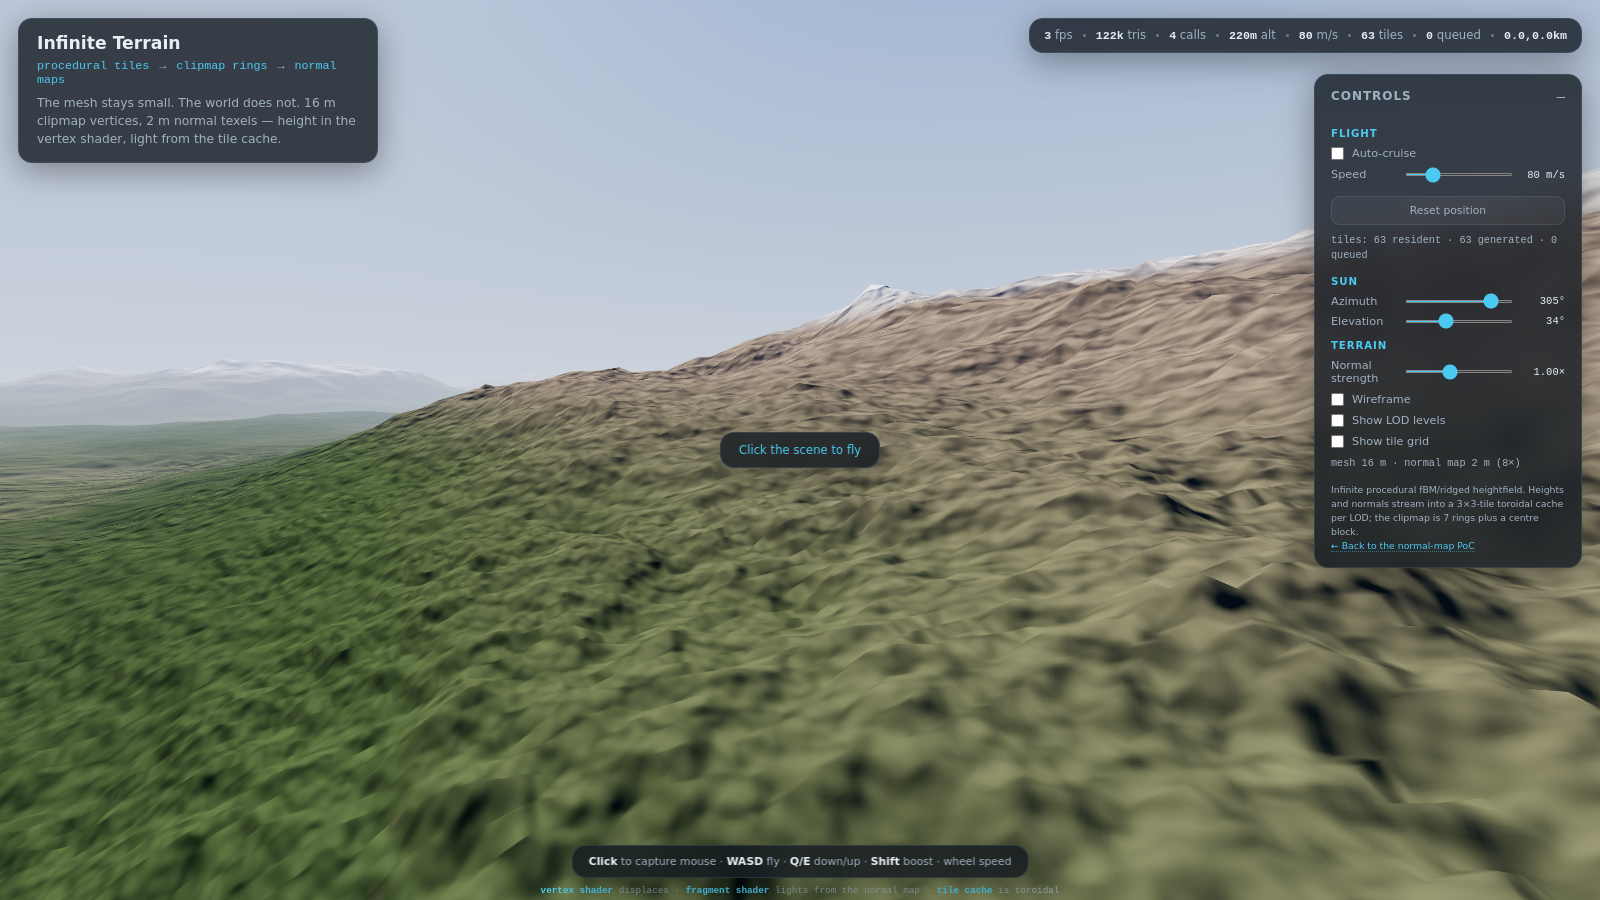
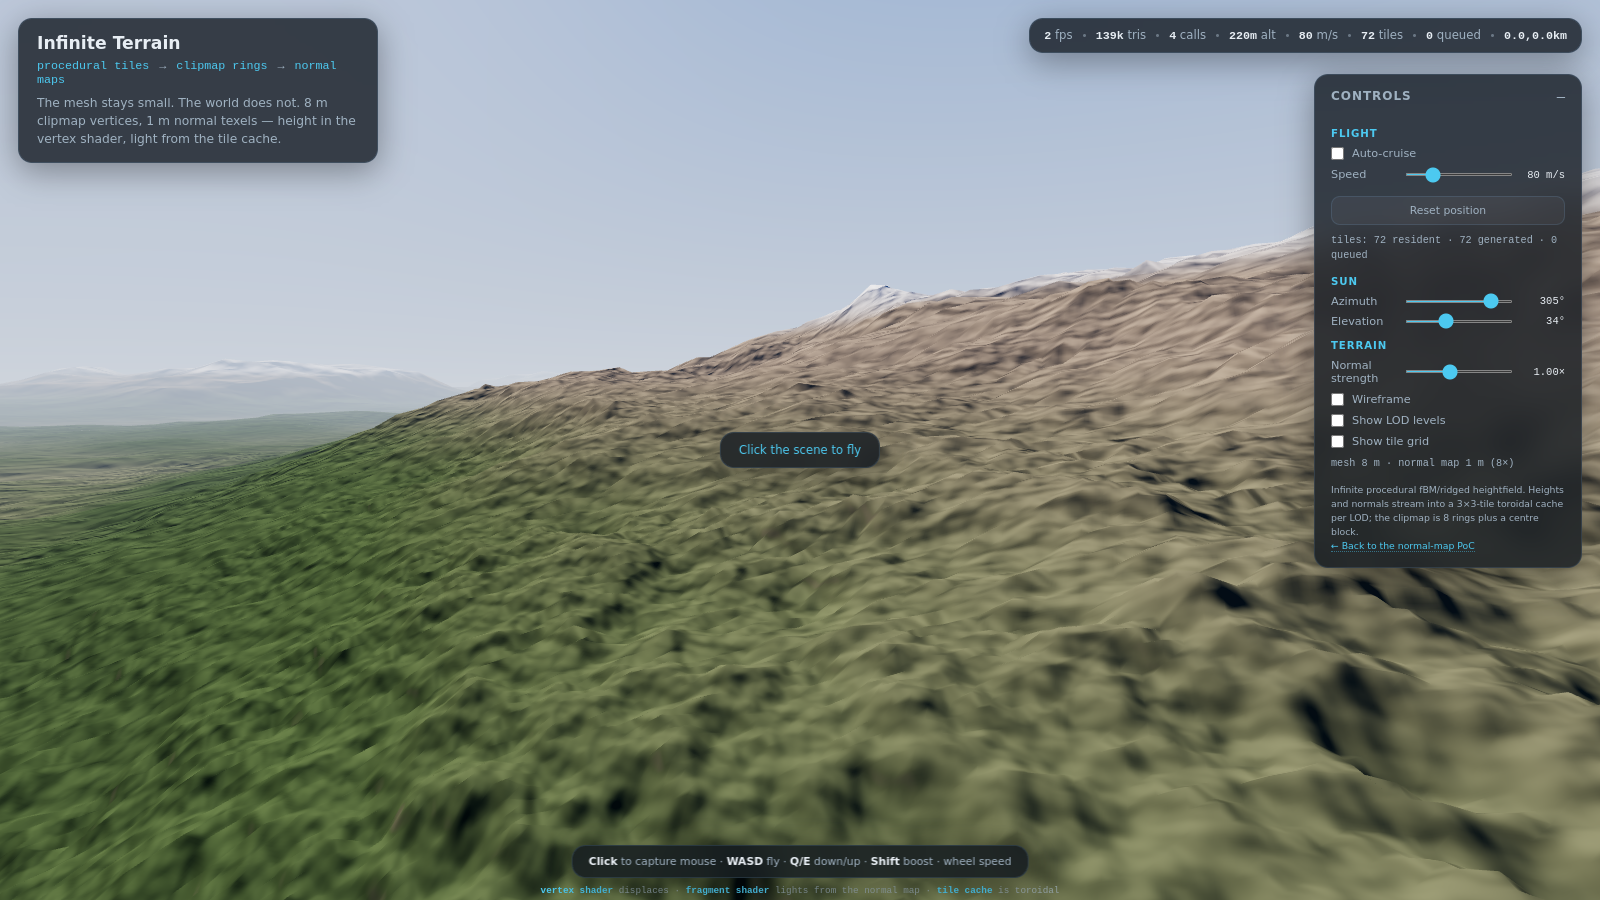
Double absolute terrain detail with 8m spacing at the 2048 cache ceiling

diff --git a/src/infinite/main.js b/src/infinite/main.js
@@ -31,9 +31,9 @@ import { initUI } from './ui.js';
 
 const CONFIG = {
   seed: DEFAULT_SEED,
-  baseSpacing: 16,      // metres between near-field vertices (coarser mesh)
+  baseSpacing: 8,       // metres between near-field vertices; halves the texel size
   centerCells: 24,      // centre block half-size and ring width, in cells
-  levels: 7,            // rings at LOD 0..6; 16m * 2^6 keeps the ~49km view
+  levels: 8,            // rings at LOD 0..7; 8m * 2^7 keeps the ~49km view
   tileSize: 64,         // height samples per tile side
   normalScale: 8,       // normal-map texels per height sample (8x mesh)
   cacheTiles: 3,        // 3x3 tiles per LOD layer (exactly the visible ring)
@@ -44,6 +44,12 @@ const CONFIG = {
 const OUTER_EXTENT = 2 * CONFIG.centerCells * CONFIG.baseSpacing * Math.pow(2, CONFIG.levels - 1);
 const CACHE_SIZE = CONFIG.cacheTiles * CONFIG.tileSize;
 const NORMAL_CACHE_SIZE = CACHE_SIZE * CONFIG.normalScale;
+// Keep the cache inside WebGL2's guaranteed minimum MAX_TEXTURE_SIZE (2048).
+// Resolution is increased by reducing world spacing, not by growing the cache.
+const MAX_CACHE_TEXELS = 2048;
+if (CACHE_SIZE > MAX_CACHE_TEXELS || NORMAL_CACHE_SIZE > MAX_CACHE_TEXELS) {
+  throw new Error(`tile cache ${CACHE_SIZE}/${NORMAL_CACHE_SIZE} exceeds ${MAX_CACHE_TEXELS} texels`);
+}
 const FOG_DENSITY = 2.4 / OUTER_EXTENT;
 // Largest tile-cache world size. Every lower LOD's cache size divides it, so
 // passing the render origin modulo this value is enough for every layer and

diff --git a/infinite.html b/infinite.html
@@ -28,7 +28,7 @@
     <p class="pipeline">
       procedural tiles <span class="arrow">→</span> clipmap rings <span class="arrow">→</span> normal maps
     </p>
-    <p class="tagline">The mesh stays small. The world does not. 16 m clipmap vertices, 2 m normal texels — height in the vertex shader, light from the tile cache.</p>
+    <p class="tagline">The mesh stays small. The world does not. 8 m clipmap vertices, 1 m normal texels — height in the vertex shader, light from the tile cache.</p>
   </header>
 
   <!-- Stats -->
@@ -83,11 +83,11 @@
         <label class="check-row"><input type="checkbox" id="wireframe" /> Wireframe</label>
         <label class="check-row"><input type="checkbox" id="lod-debug" /> Show LOD levels</label>
         <label class="check-row"><input type="checkbox" id="tile-debug" /> Show tile grid</label>
-        <p class="info">mesh 16 m · normal map 2 m (8×)</p>
+        <p class="info">mesh 8 m · normal map 1 m (8×)</p>
       </section>
 
       <section class="credits">
-        <p>Infinite procedural fBM/ridged heightfield. Heights and normals stream into a 3×3-tile toroidal cache per LOD; the clipmap is 7 rings plus a centre block.</p>
+        <p>Infinite procedural fBM/ridged heightfield. Heights and normals stream into a 3×3-tile toroidal cache per LOD; the clipmap is 8 rings plus a centre block.</p>
         <p><a href="./index.html">← Back to the normal-map PoC</a></p>
       </section>
     </div>

diff --git a/docs/INFINITE_TERRAIN_CONCEPT.md b/docs/INFINITE_TERRAIN_CONCEPT.md
@@ -38,7 +38,7 @@ Non-goals:
 | LOD seams | Explicit 2:1 stitch strips (fine edge + coarse-layer chord) + a skirt at the final horizon edge |
 | Flight UX | Free-fly (pointer lock + WASD) with an optional auto-cruise toggle |
 | Normal maps | Always on; no vertex-normal A/B mode on this page |
-| Quality target | Coarser mesh + finer maps: `S0 = 16 m`, 7 LODs, 8× normals (2 m texels), ~122k triangles, ~49 km view |
+| Quality target | Fine maps, 2048-safe cache: `S0 = 8 m`, 8 LODs, 8× normals (1 m texels), ~139k triangles, ~49 km view |
 
 The constants are configurable; the mobile-friendly values are the defaults.
 
@@ -71,14 +71,14 @@ The constants are configurable; the mobile-friendly values are the defaults.
 
 | Symbol | Value | Meaning |
 |---|---|---|
-| `S0` | 16 m | finest vertex spacing |
+| `S0` | 8 m | finest vertex spacing |
 | `C` | 24 cells | centre-block half-size and ring width |
-| `LEVELS` | 7 | rings at LOD 0 … 6 |
+| `LEVELS` | 8 | rings at LOD 0 … 7 |
 | `T` | 64 cells | height tile size in samples/cells |
 | `K` | 3 | tile-cache side in tiles (exactly the visible ring) |
 
-The centre block is `2C × 2C = 48 × 48` cells, i.e. 768 m across at
-`S0 = 16 m`. Its half-extent is `C·S0 = 384 m`.
+The centre block is `2C × 2C = 48 × 48` cells, i.e. 384 m across at
+`S0 = 8 m`. Its half-extent is `C·S0 = 192 m`.
 
 Ring `L` has:
 
@@ -87,25 +87,25 @@ Ring `L` has:
 - outer half-extent `2C · S_L`
 - outer half-extent in metres `2C · S0 · 2^L`
 
-With the values above the last ring reaches `2·24·16·2^6 = 49,152 m`
+With the values above the last ring reaches `2·24·8·2^7 = 49,152 m`
 (49 km). Fog is tuned so the last ring is already fully faded before its
 outer edge, which hides the end of the world.
 
-Triangle budget (`C = 24`, `LEVELS = 7`):
+Triangle budget (`C = 24`, `LEVELS = 8`):
 
 | Part | Triangles |
 |---|---:|
 | centre block (`2C` cells square) | ≈ 4.6k |
 | each ring interior (`16C² − 4C² = 12C²` cells) | ≈ 13.8k |
-| 7 rings | ≈ 96.8k |
-| 6 stitch strips + 7 skirts | ≈ 17.7k |
-| **terrain total** | **≈ 119k** |
-| + sky | ≈ 122k rendered |
+| 8 rings | ≈ 110.6k |
+| 7 stitch strips + 8 skirts | ≈ 20.4k |
+| **terrain total** | **≈ 135.5k** |
+| + sky | ≈ 139k rendered |
 
-That is intentionally modest: the detail comes from the normal map, not from
-the triangle count. The near field is deliberately coarse (16 m vertices),
-while the normal map supplies **2 m** detail — an 8× resolution ratio, now
-finer in absolute terms than the first PoC's 4.4 m normal map.
+That is still modest: the detail comes from the normal map, not from the
+triangle count. The near field uses 8 m vertices, while the normal map
+supplies **1 m** detail — an 8× resolution ratio, and 4.4× finer in absolute
+terms than the first PoC's normal map.
 
 ### 4.2 Why nested rings with 2:1 steps
 
@@ -149,7 +149,7 @@ clipOrigin = floor(camera.xz / S0) * S0
 ```
 
 Every level's vertices are `clipOrigin + cell · S_L`, so LOD boundaries never
-drift relative to each other. The origin snaps in 16 m steps; the terrain
+drift relative to each other. The origin snaps in 8 m steps; the terrain
 itself is sampled in world coordinates, so the height field appears
 stationary while the mesh grid snaps. Level 0 lands exactly on its grid;
 coarser levels shift by at most half a cell, which is negligible at their
@@ -162,17 +162,17 @@ screen size.
 For each LOD `L`:
 
 - height layer: `R16F`, normalized height in `[0,1]` (core-filterable in
-  WebGL2; the half-float step is well below the 16 m vertex spacing)
+  WebGL2; the half-float step is well below the 8 m vertex spacing)
 - normal layer: `RGBA8`, object-space normal encoded
   `R=N.x`, `G=N.z`, `B=N.y` (same convention as the existing PoC)
 
 Both are WebGL2 `DataArrayTexture`s with `LEVELS` layers:
 
-- height: `192 × 192` texels per layer (`3 × 3` tiles of `64 × 64`) ≈ 0.5 MB
-- normal: `1536 × 1536` texels per layer (`3 × 3` tiles of `512 × 512`) ≈ 66 MB
+- height: `192 × 192` texels per layer (`3 × 3` tiles of `64 × 64`) ≈ 0.56 MiB
+- normal: `1536 × 1536` texels per layer (`3 × 3` tiles of `512 × 512`) ≈ 72 MiB
 
-The normal map is baked at **8× the height-tile resolution**, so it can carry
-detail well below the clipmap's 16 m near-field vertex spacing. Sampling uses
+The normal map is baked at **8× the height-tile resolution**, so it carries
+1 m detail against the 8 m near-field vertex spacing. Sampling uses
 `sampler2DArray` in both the vertex and fragment shaders. `RepeatWrapping` +
 linear filtering gives free bilinear interpolation across tile and cache
 boundaries.
@@ -279,7 +279,7 @@ worldPos      = vec3(local.x, height, local.y)
 
 One height fetch per vertex is enough because the page always lights from
 the normal map. The normal map supplies the high-frequency detail that the
-coarse geometry and the 16 m near-field grid cannot. The `aCoarse` flag is
+coarse geometry and the 8 m near-field grid cannot. The `aCoarse` flag is
 only set on the stitch strip's coarse chord, which must sample the next
 LOD's layer to meet the next ring exactly.
 
@@ -423,33 +423,33 @@ The shipped defaults are:
 
 | Setting | Value |
 |---|---|
-| base spacing | 16 m |
+| base spacing | 8 m |
 | centre/ring width | 24 cells |
-| LODs | 7 (0…6), outer radius 49.152 km |
+| LODs | 8 (0…7), outer radius 49.152 km |
 | tile size | 64 height samples; 512 normal texels (8×) |
-| cache | 3×3 tiles per LOD (63 tiles visible at boot) |
-| triangles | ≈ 122k including stitch strips and sky |
+| cache | 3×3 tiles per LOD (72 tiles visible at boot) |
+| triangles | ≈ 139k including stitch strips and sky |
 | draw calls | 4 (sky, centre, rings, stitch) |
 | height format | R16F |
-| normal format | RGBA8, 8× resolution (2 m texels at LOD 0) |
+| normal format | RGBA8, 8× resolution (1 m texels at LOD 0) |
 | workers | up to 2 tile workers |
 
 Verified on the headless SwiftShader host:
 
-- boot: 63/63 tiles resident, zero upload errors, no console/page errors;
-- 25 km and 500 km warps: 63/63 resident tiles after regeneration;
+- boot: 72/72 tiles resident, zero upload errors, no console/page errors;
+- 25 km and 500 km warps: 72/72 resident tiles after regeneration;
 - 500 km: `PHASE_WRAP` keeps the shader origin at `(237856, 37856)` while
   the camera stays in small render-space coordinates;
-- normal-map QA: high-frequency `hf = 4.10` vs `0.23` with flat normals
-  (≈18× more shading detail) — the absolute normal resolution is now 2 m,
-  twice the previous build's 4 m;
+- normal-map QA: high-frequency `hf = 4.26` vs `0.23` with flat normals
+  (≈18.5× more shading detail) — the absolute normal resolution is now 1 m,
+  twice the previous build's 2 m, while the cache remains 1536 texels;
 - all rings + stitch: no background cracks at 25 km with the sky hidden and
   the clear colour set to magenta; hiding the stitch reveals the expected
   LOD-boundary cracks, confirming the seam test is sensitive.
 
 Remaining honest limitations:
 
-- The far rings are coarse (up to 1024 m vertex spacing at LOD 6);
+- The far rings are coarse (up to 1024 m vertex spacing at LOD 7);
   silhouettes and large-scale geometry are therefore smooth, even though the
   normal map adds detail.
 - The last ring's edge is hidden by fog and a skirt, not by an actually
@@ -457,6 +457,6 @@ Remaining honest limitations:
 - Normal maps are RGB8, so extreme grazing-angle lighting can still show
   quantisation/aliasing.
 - Tile generation is CPU-bound in workers; a cold boot on a slow phone can
-  take several seconds (the 8× normal bake is ~7× the original work). The
-  normal cache is ~66 MB of GPU texture memory; the CPU-side allocation is
-  freed after the initial upload.
+  take several seconds (the 8× normal bake is ~7× the original per-tile work,
+  plus one extra LOD layer). The normal cache is ~72 MiB of GPU texture
+  memory; the CPU-side allocation is freed after the initial upload.

diff --git a/AGENTS.md b/AGENTS.md
@@ -129,7 +129,7 @@ Everything downstream (baking, meshing, shading) is agnostic; keep this shape:
     = 8`). The shader uses `uTileCells = 64` for the height UV and
     `uNormalTileCells = 512` for the normal UV. `T` in the UV formula is the
     *per-map* tile texel count, not always 64. This is the 8× resolution
-    ratio (2 m normal texels vs 16 m mesh) that makes the detail visible.
+    ratio (1 m normal texels vs 8 m mesh) that makes the detail visible.
 11. **Stitch chords must sample the coarse layer.** `aCoarse = 1` on the
     stitch's coarse vertices adds 1 to `aLevel` for the height fetch only;
     geometry spacing stays at the fine LOD. A stitch built from only fine
@@ -146,13 +146,13 @@ Everything downstream (baking, meshing, shading) is agnostic; keep this shape:
     origin; `uRenderOrigin` is `renderOrigin mod PHASE_WRAP` (largest cache
     world size). The camera stays in small render-space coordinates. Do not
     remove the modulo or long flights lose tile phase.
-15. **Clipmap constants:** `S0=16 m`, `C=24` cells, `LEVELS=7`, outer radius
+15. **Clipmap constants:** `S0=8 m`, `C=24` cells, `LEVELS=8`, outer radius
     ≈49 km, height tile 64², normal tile 512², cache 3×3. Ring `L` covers
-    `[C·2^L, 2C·2^L]·S0`; the last ring gets the only real skirt. The mesh is
-    deliberately coarse; do not reduce `normalScale` without re-checking the
-    detail-vs-mesh ratio. The 3×3 cache exactly covers the visible ring; if
-    fast flight produces tile pops, increase it to 4×4 and the normal cache
-    memory from ~66 MB to ~117 MB.
+    `[C·2^L, 2C·2^L]·S0`; the last ring gets the only real skirt. Do not
+    reduce `normalScale` without re-checking the detail-vs-mesh ratio. The
+    normal cache is 1536 texels — below the 2048 WebGL2 ceiling. The 3×3
+    cache exactly covers the visible ring; if fast flight produces tile pops,
+    increase it to 4×4 (normal cache becomes 2048 texels, ~128 MiB).
 
 ## Conventions & practices
 
@@ -169,7 +169,7 @@ Everything downstream (baking, meshing, shading) is agnostic; keep this shape:
   tile crossings. The streamer uses up to 2 workers because the 8× normal
   bake is ~7× the work of the original 2× version. The 3×3 cache exactly
   covers the visible ring; if fast flight shows tile pops, go to 4×4 (and
-  budget ~117 MB for the normal cache instead of ~66 MB).
+  budget ~128 MiB for the normal cache instead of ~72 MiB).
 - The Grand Canyon heightfield is **committed** (`public/data/`) so the site
   needs no network beyond GitHub Pages. Regenerating requires internet access
   to `s3.amazonaws.com/elevation-tiles-prod`.

diff --git a/README.md b/README.md
@@ -100,10 +100,9 @@ mesh's perceived detail with **3.5% of its triangles**.
 The second PoC asks a different question: can the *same* normal-map trick
 work when the terrain never ends?
 
-- **Geometry** — one centre block plus 7 nested square rings, spacing
-  `16 m · 2^L`. Each ring is a fixed grid; heights are displaced in the
-  vertex shader. Total ≈ 122k triangles, 4 draw calls. The mesh is
-  deliberately coarser than the first PoC.
+- **Geometry** — one centre block plus 8 nested square rings, spacing
+  `8 m · 2^L`. Each ring is a fixed grid; heights are displaced in the
+  vertex shader. Total ≈ 139k triangles, 4 draw calls.
 - **LOD seams** — a zero-width 2:1 stitch strip at every ring edge. The fine
   edge samples LOD `L`; the coarse chord samples LOD `L+1` with the same UV
   mapping as the next ring, so the two meshes are watertight. A final skirt
@@ -132,17 +131,18 @@ node tools/screenshot-infinite.mjs --url http://127.0.0.1:4173/infinite.html --o
 node tools/analyze-infinite.mjs shots-infinite
 ```
 
-The headless QA verifies 63 resident tiles at boot, no console/page errors,
+The headless QA verifies 72 resident tiles at boot, no console/page errors,
 warps to 25 km and 500 km, and measures the normal-map contribution:
-`hf = 4.10` with the map vs `0.23` with flat normals on the same view —
+`hf = 4.26` with the map vs `0.23` with flat normals on the same view —
 roughly 18× more high-frequency shading detail, with an 8× normal-to-mesh
-resolution ratio (16 m mesh, 2 m normal texels).
+resolution ratio (8 m mesh, 1 m normal texels).
 
 Honest limitations: the far rings are coarse (up to 1024 m vertex spacing at
 LOD 6), so silhouettes are smooth even though shading detail is not; the
 world ends at 49 km behind fog; tile generation is CPU-bound in workers; and
-the 8× normal cache costs ~66 MB of GPU texture memory (the CPU-side initial
-buffer is freed after allocation).
+the 8× normal cache costs ~72 MiB of GPU texture memory (the CPU-side initial
+buffer is freed after allocation). The cache stays at 1536 texels, below the
+2048 WebGL2 ceiling.
 
 ## Documentation
 

diff --git a/docs/VERIFICATION.md b/docs/VERIFICATION.md
@@ -114,14 +114,15 @@ also writes `console.json`; any console/page error fails the run.
 | normal-map `hf > 1.05 ×` flat-normal `hf` | the map is actually contributing detail |
 | LOD debug `std > 20` | the ring-colour view is varied |
 
-The default mesh is deliberately coarse (16 m near-field vertices) and the
-normal map is 8× finer (**2 m texels**). The normal-vs-flat `hf` ratio is
-therefore much larger than the previous builds; if it collapses toward ~1×,
-the normal layer/UV mapping or `normalScale` is wrong.
+The mesh uses 8 m near-field vertices and the normal map is 8× finer
+(**1 m texels**). The normal-vs-flat `hf` ratio is therefore much larger than
+the previous builds; if it collapses toward ~1×, the normal layer/UV mapping
+or `normalScale` is wrong.
 
-Reference values from the verified build: 63/63 tiles resident, 122k
-triangles, 4 draw calls, 2 workers, normal-map `hf=4.10` vs flat `hf=0.23`,
-zero upload errors, 63 resident tiles after both 25 km and 500 km warps.
+Reference values from the verified build: 72/72 tiles resident, 139k
+triangles, 4 draw calls, 2 workers, normal-map `hf=4.26` vs flat `hf=0.23`,
+zero upload errors, 72 resident tiles after both 25 km and 500 km warps.
+The normal cache is 1536 texels / ~72 MiB, below the 2048 ceiling.
 
 ### Seam/crack test
 
@@ -140,7 +141,7 @@ Manual pass on a real GPU:
    `Shift` boosts. Fly low over a ridge; the terrain guard must keep you out
    of the ground.
 3. **Warp / long flight** — let auto-cruise run for a minute; the tile stats
-   should settle back to 63 resident, and the terrain should not swim.
+   should settle back to 72 resident, and the terrain should not swim.
 4. **Normal strength 0 → 2.5** — at 0 the near field goes smooth; at 1 it is
    honest; above ~2 it gets crunchy.
 5. **Show LOD levels / Show tile grid** — ring colours should change at the
